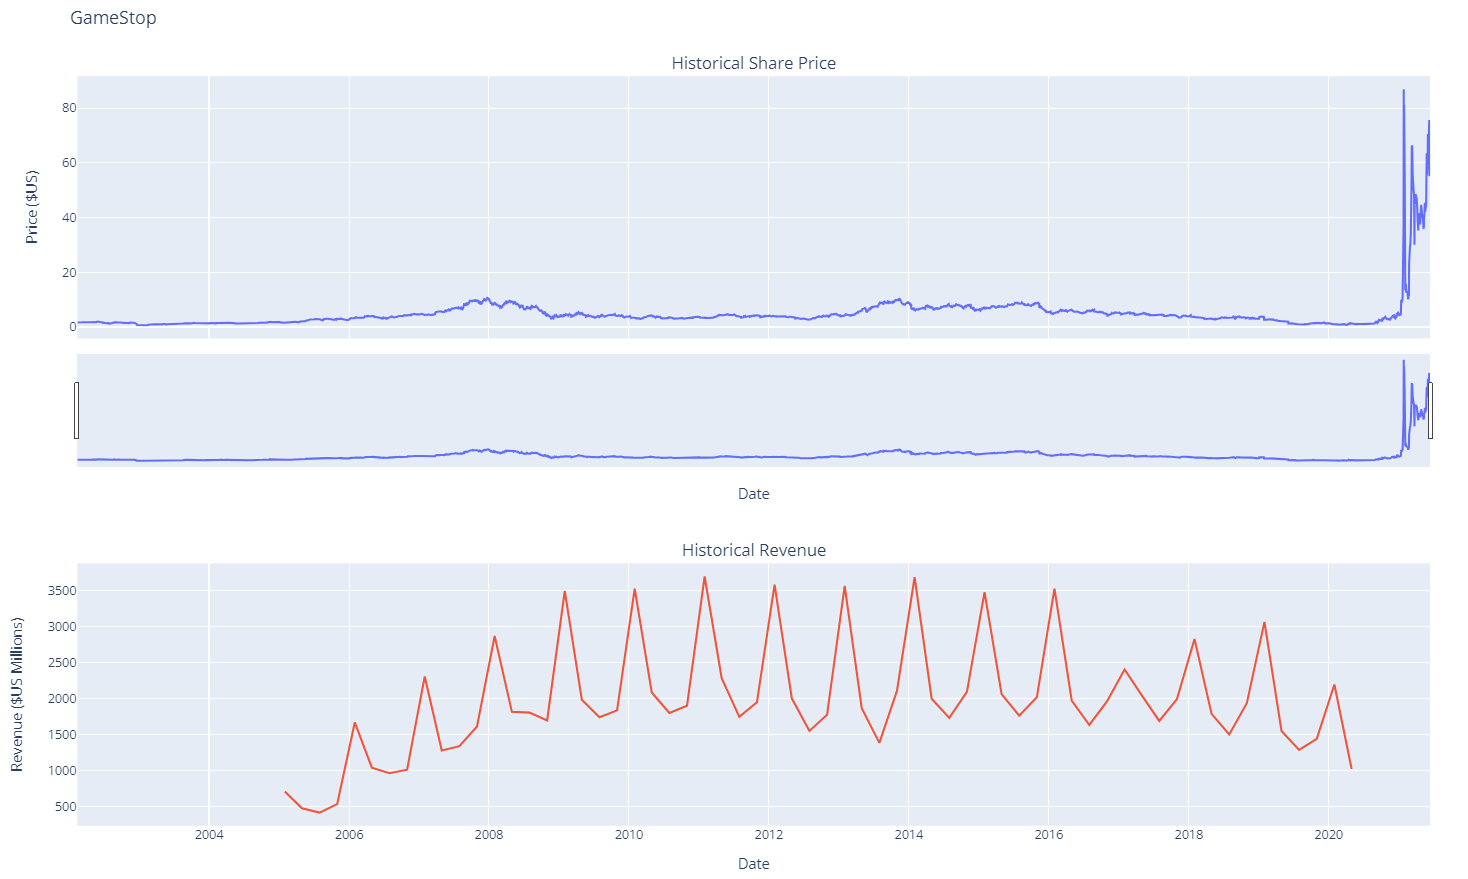
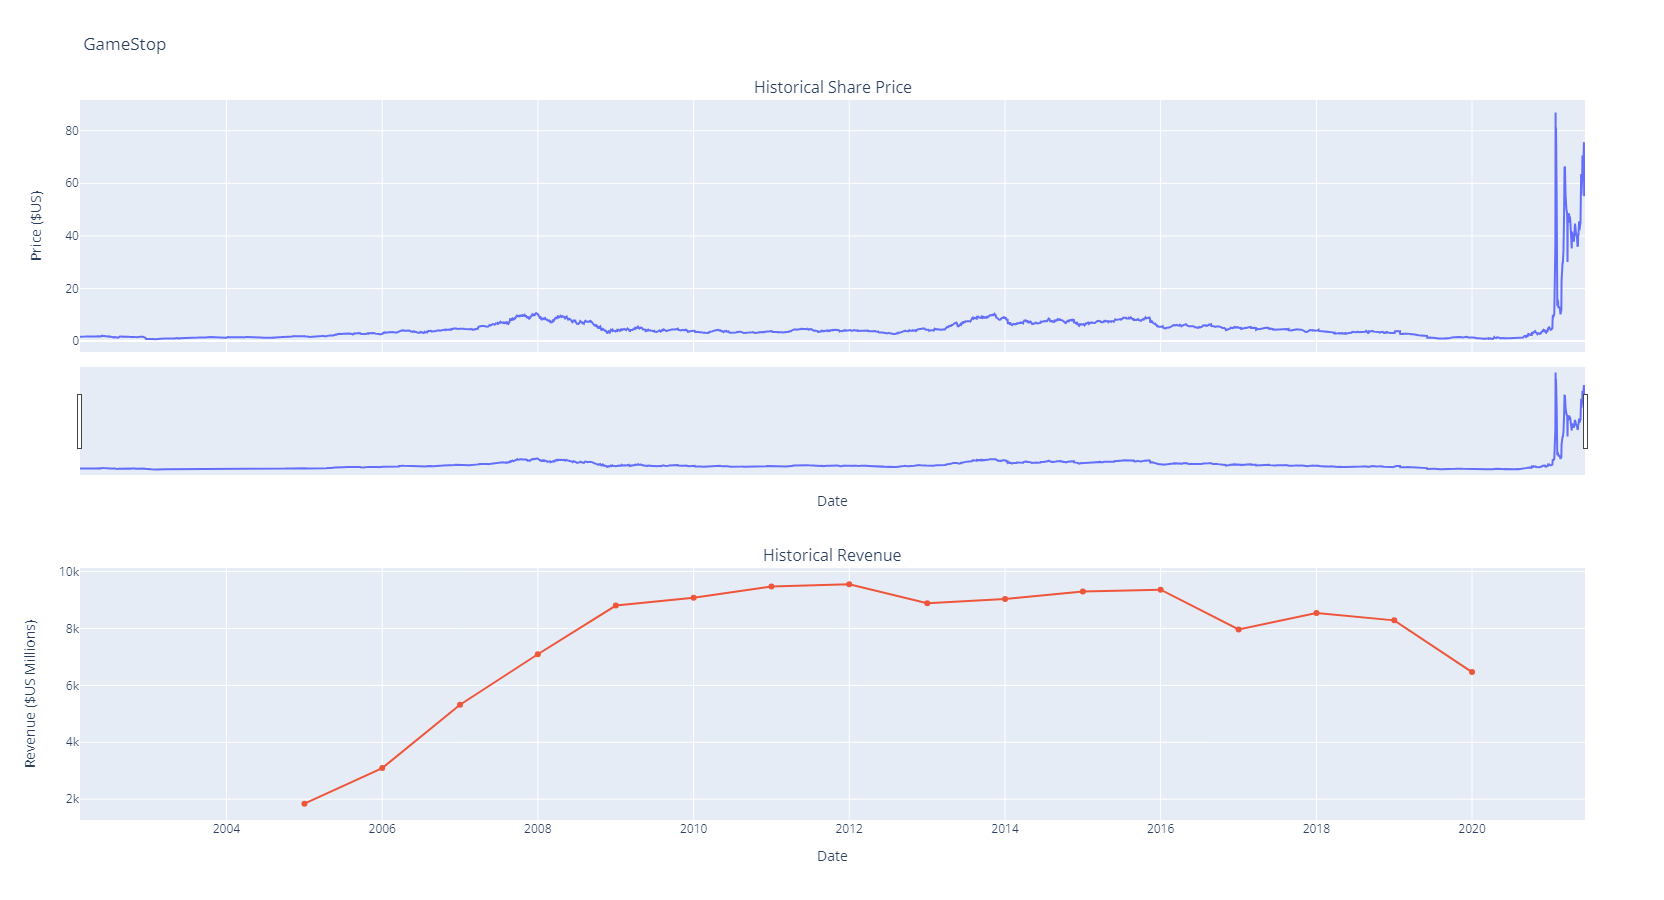
Refactor stock analyze by applying modular functional based approach

diff --git a/stock-analyze/main.py b/stock-analyze/main.py
@@ -1,0 +1,66 @@
+import yfinance as yf
+import pandas as pd
+import requests
+from bs4 import BeautifulSoup
+
+from make_graph import make_graph
+
+
+def get_stock_data(stock_ticker: str) -> pd.DataFrame:
+    stock = yf.Ticker(stock_ticker)
+
+    stock_history = stock.history(period="max")
+    stock_data = pd.DataFrame(stock_history)
+
+    stock_data.reset_index(inplace=True)
+    stock_data.head(5)
+    return stock_data
+
+
+def get_stock_revenue(beauti_html: BeautifulSoup) -> pd.DataFrame:
+    stock_revenue = pd.DataFrame()
+
+    for row in beauti_html.find("tbody").find_all("tr"):
+        col = row.find_all('td')
+        date = col[0].text
+        revenue = col[1].text.replace("$", "").replace(",", "")
+
+        stock_revenue = pd.concat([stock_revenue, pd.DataFrame({"Date": date, "Revenue": revenue}, index=[0])], ignore_index=True)
+
+    return stock_revenue
+
+
+def validate_stock_revenue_data(stock_revenue: pd.DataFrame) -> pd.DataFrame:
+    stock_revenue["Revenue"] = stock_revenue["Revenue"].str.replace(",", "").str.replace("$", "")
+    stock_revenue.dropna(inplace=True)
+    stock_revenue = stock_revenue[stock_revenue["Revenue"] != ""]
+    return stock_revenue
+
+
+def get_data(url: str) -> BeautifulSoup:
+    data = requests.get(url)
+    html_data = data.text
+    beauti_html = BeautifulSoup(html_data, "html.parser")
+    return beauti_html
+
+
+def main():
+    gamestop_url = "https://cf-courses-data.s3.us.cloud-object-storage.appdomain.cloud/IBMDeveloperSkillsNetwork-PY0220EN-SkillsNetwork/labs/project/stock.html"
+    gamestop_beauti_html = get_data(url=gamestop_url)
+    gamestop_data = get_stock_data(stock_ticker="GME")
+    gamestop_revenue = get_stock_revenue(beauti_html=gamestop_beauti_html)
+    validated_gamestop_revenue = validate_stock_revenue_data(stock_revenue=gamestop_revenue)
+    make_graph(gamestop_data, validated_gamestop_revenue, 'GameStop')
+    
+    
+    tesla_url = "https://cf-courses-data.s3.us.cloud-object-storage.appdomain.cloud/IBMDeveloperSkillsNetwork-PY0220EN-SkillsNetwork/labs/project/revenue.htm"
+    tesla_beauti_html = get_data(url=tesla_url)
+    tesla_data = get_stock_data(stock_ticker="TSLA")
+    tesla_revenue = get_stock_revenue(beauti_html=tesla_beauti_html)
+    validated_tesla_revenue = validate_stock_revenue_data(stock_revenue=tesla_revenue)
+    make_graph(tesla_data, validated_tesla_revenue, 'Tesla')
+    
+    
+    
+if __name__ == '__main__':
+    main()

diff --git a/stock-analyze/make_graph.py b/stock-analyze/make_graph.py
@@ -1,0 +1,19 @@
+import pandas as pd
+import plotly.graph_objects as go
+from plotly.subplots import make_subplots
+
+def make_graph(stock_data, revenue_data, stock):
+    fig = make_subplots(rows=2, cols=1, shared_xaxes=True, subplot_titles=("Historical Share Price", "Historical Revenue"), vertical_spacing = .3)
+    stock_data_specific = stock_data[stock_data.Date <= '2021--06-14']
+    revenue_data_specific = revenue_data[revenue_data.Date <= '2021-04-30']
+    fig.add_trace(go.Scatter(x=pd.to_datetime(stock_data_specific.Date, infer_datetime_format=True), y=stock_data_specific.Close.astype("float"), name="Share Price"), row=1, col=1)
+    fig.add_trace(go.Scatter(x=pd.to_datetime(revenue_data_specific.Date, infer_datetime_format=True), y=revenue_data_specific.Revenue.astype("float"), name="Revenue"), row=2, col=1)
+    fig.update_xaxes(title_text="Date", row=1, col=1)
+    fig.update_xaxes(title_text="Date", row=2, col=1)
+    fig.update_yaxes(title_text="Price ($US)", row=1, col=1)
+    fig.update_yaxes(title_text="Revenue ($US Millions)", row=2, col=1)
+    fig.update_layout(showlegend=False,
+    height=900,
+    title=stock,
+    xaxis_rangeslider_visible=True)
+    fig.show()

diff --git a/README.md b/README.md
@@ -1,4 +1,4 @@
-# IBM Data Science prject assignment - Analyze Stock Data
+# IBM Data Science project assignment - Analyze Stock Data
 
 In this lab I'm Analyze and Visualize Stock Data of Tesla and GameStop Revenue using data from yahoo.com
 
@@ -15,7 +15,7 @@ In this lab I'm Analyze and Visualize Stock Data of Tesla and GameStop Revenue u
 ## Using Technology
 
 - Jupyter Notebook
-- IBM cloud
+- IBM cloud, IBM Watson Studio
 - Webscraping using BeautifulSoup
 - yfinance to extract stock data
 - pandas
